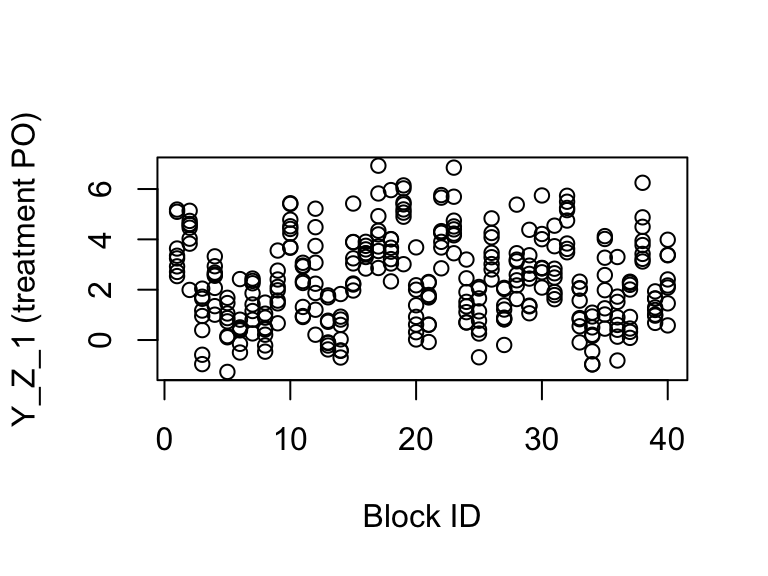
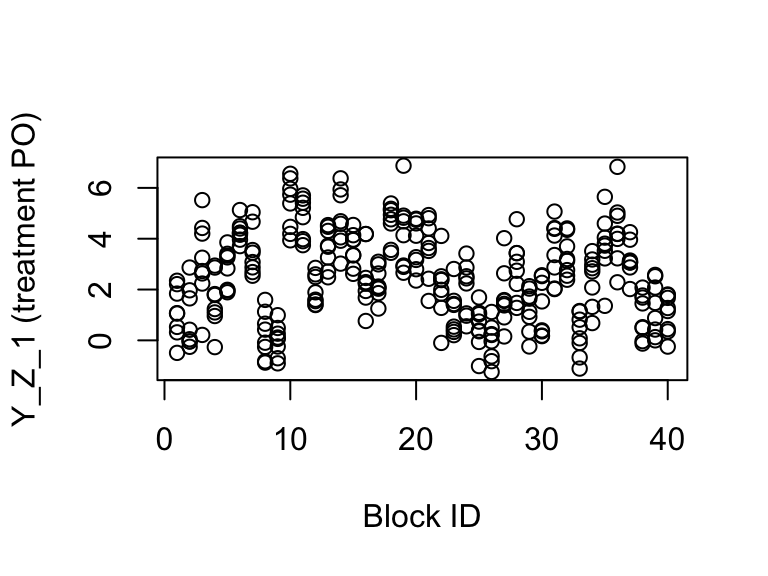
Pass through vignettes

diff --git a/docs/articles/simulations-ols-variance.html b/docs/articles/simulations-ols-variance.html
@@ -108,12 +108,15 @@
     
 <div class="contents">
 <p>This document exposes the properties of different variance estimators using <a href="http://declaredesign.org"><code>DeclareDesign</code></a> and <a href="http://estimatr.declaredesign.org"><code>estimatr</code></a>. More details about the variance estimators with references can be found in the <a href="http://estimatr.declaredesign.org/articles/mathematical-notes.html">mathematical notes</a>.</p>
+<div class="sourceCode"><pre class="sourceCode r"><code class="sourceCode r"><span class="kw">library</span>(DeclareDesign)</code></pre></div>
+<pre><code>## Loading required package: randomizr</code></pre>
+<pre><code>## Loading required package: fabricatr</code></pre>
+<pre><code>## Loading required package: estimatr</code></pre>
+<div class="sourceCode"><pre class="sourceCode r"><code class="sourceCode r"><span class="kw">library</span>(ggplot2)</code></pre></div>
 <div id="homoskedastic-errors" class="section level1">
 <h1 class="hasAnchor">
 <a href="#homoskedastic-errors" class="anchor"></a>Homoskedastic errors</h1>
 <p>Under simple conditions with homoskedasticity (i.e., all errors are drawn from a distribution with the same variance), the classical estimator of the variance of OLS should be unbiased. In this section I demonstrate this to be true using <a href="declaredesign.org"><code>DeclareDesign</code></a> and <a href="estimatr.declaredesign.org"><code>estimatr</code></a>.</p>
-<div class="sourceCode"><pre class="sourceCode r"><code class="sourceCode r"><span class="kw">library</span>(DeclareDesign)
-<span class="kw">library</span>(ggplot2)</code></pre></div>
 <p>First, let’s take a simple set up:</p>
 <p><span class="math display">\[
 \begin{aligned}
@@ -163,7 +166,7 @@ true_varb</code></pre></div>
   <span class="dt">estimand =</span> varb_estimand,
   <span class="dt">coefficient_name =</span> <span class="st">"x"</span>
 )</code></pre></div>
-<p>Now, we want to test for a few results using Monte Carlo simulation. Our main goal is to show that our estimated variance is unbiased for the true variance (our estimand). We can do this by comparing the mean of our estimated variances to the true variance. We can also show that the standard error of our coefficient estimate is the same as the standard deviation of the sampling distribution as our coefficient and that the coverage of our 95 percent confidence intervals is indeed 95 percent.</p>
+<p>Now, we want to test for a few results using Monte Carlo simulation. Our main goal is to show that our estimated variance is unbiased for the true variance (our estimand). We can do this by comparing the mean of our estimated variances across our Monto Carlo simulations to the true variance. We can also show that the standard error of our coefficient estimate is the same as the standard deviation of the sampling distribution of our coefficient. Lastly, we also measure the coverage of our 95 percent confidence intervals across simulations to test whether the they cover the true coefficient 95 percent of the time.</p>
 <p>Let’s first set up the design and our diagnosands.</p>
 <div class="sourceCode"><pre class="sourceCode r"><code class="sourceCode r"><span class="co"># First declare all the steps of our design, starting with our fixed data</span>
 classical_design &lt;-<span class="st"> </span><span class="kw"><a href="http://www.rdocumentation.org/packages/DeclareDesign/topics/declare_design">declare_design</a></span>(
@@ -185,8 +188,13 @@ my_diagnosands &lt;-<span class="st"> </span><span class="kw"><a href="http://ww
 <p>Now let’s run the simulations!</p>
 <div class="sourceCode"><pre class="sourceCode r"><code class="sourceCode r"><span class="co"># Run 25000 simulations</span>
 <span class="kw">set.seed</span>(<span class="dv">42</span>)
-dig &lt;-<span class="st"> </span><span class="kw"><a href="http://www.rdocumentation.org/packages/DeclareDesign/topics/diagnose_design">diagnose_design</a></span>(</code></pre></div>
-<p>Our diagnosands can help us see if there is any bias. Note that the standard error of the diagnosands is a useful tool that let’s us know whether our estimated bias, or any other diagnosand, is simply an artifact of simulation noise or if it appears to be precisely estimated via simulation.</p>
+dig &lt;-<span class="st"> </span><span class="kw"><a href="http://www.rdocumentation.org/packages/DeclareDesign/topics/diagnose_design">diagnose_design</a></span>(
+  classical_design, 
+  <span class="dt">sims =</span> <span class="dv">20000</span>, 
+  <span class="dt">diagnosands =</span> my_diagnosands, 
+  <span class="dt">parallel =</span> <span class="ot">TRUE</span>
+)</code></pre></div>
+<p>Our diagnosands can help us see if there is any bias. Note that the standard error of the diagnosands—denoted as <code>se(Diagnosand)</code>—is a useful tool that let’s us know whether our estimated bias, or any other diagnosand, is simply an artifact of simulation noise or if it appears to be precisely estimated via simulation.</p>
 <table class="table">
 <thead><tr class="header">
 <th></th>
@@ -211,7 +219,7 @@ dig &lt;-<span class="st"> </span><span class="kw"><a href="http://www.rdocument
 </tr>
 </tbody>
 </table>
-<p>As we can see the bias is very close to zero and because the standard error is not much smaller than the bias, we can be reasonably certain that the only reason the bias is not exactly zero is due to simulation error. We can also see this visually, using a density plot of estimated variances with a line for the true variance.</p>
+<p>As we can see the bias is very close to zero. Because the standard error of the bias is much larger than the estimated bias, we can be reasonably certain that the only reason the bias is not exactly zero is due to simulation error. We can also see the unbiasedness visually, using a density plot of estimated variances with a line for the true variance.</p>
 <p><img src="simulations-ols-variance_files/figure-html/unnamed-chunk-10-1.png" width="480"></p>
 <p>We can also show that the standard error is unbiased for the standard deviation of the sampling distribution of <span class="math inline">\(\beta\)</span> and that the coverage is appropriate.</p>
 <table class="table">
@@ -242,7 +250,11 @@ dig &lt;-<span class="st"> </span><span class="kw"><a href="http://www.rdocument
 <div id="heteroskedastic-errors" class="section level1">
 <h1 class="hasAnchor">
 <a href="#heteroskedastic-errors" class="anchor"></a>Heteroskedastic errors</h1>
-<p>Now let’s use the same fixed data set-up, but now let’s introduce heteroskedasticity. In this case, the variance of the errors is different across units (i.e. <span class="math inline">\(\sigma^2_i \neq \sigma^2_j\)</span> for some units <span class="math inline">\(i\)</span> and <span class="math inline">\(j\)</span>. If this variance of the errors is not independent of the regressors, the “classical” variance will be biased and inconsistent. Meanwhile, heteroskedastic-consistent variance estimators, such as the HC2 estimator, are consistent and normally less biased than the “classical” estimator. Let’s demonstrate this using <a href="declaredesign.org"><code>DeclareDesign</code></a>. First, let’s specify the variance of the errors to be strongly correlated with <span class="math inline">\(x\)</span>.</p>
+<p>Let’s use the same fixed data set-up, but introduce heteroskedasticity. In this case, the variance of the errors is different across units:</p>
+<p><span class="math display">\[
+\epsilon_i \sim N(0, \sigma_i^2),
+\]</span></p>
+<p>where <span class="math inline">\(\sigma^2_i \neq \sigma^2_j\)</span> for some units <span class="math inline">\(i\)</span> and <span class="math inline">\(j\)</span>. If the variance of the errors is not independent of the regressors, the “classical” variance will be biased and inconsistent. Meanwhile, heteroskedastic-consistent variance estimators, such as the HC2 estimator, are consistent and normally less biased than the “classical” estimator. Let’s demonstrate this using <a href="declaredesign.org"><code>DeclareDesign</code></a>. First, let’s specify the variance of the errors to be strongly correlated with <span class="math inline">\(x\)</span>.</p>
 <div class="sourceCode"><pre class="sourceCode r"><code class="sourceCode r">dat &lt;-<span class="st"> </span><span class="kw">fabricate</span>(
   dat,
   <span class="dt">noise_var =</span> <span class="dv">1</span> <span class="op">+</span><span class="st"> </span>(x <span class="op">-</span><span class="st"> </span><span class="kw">min</span>(x))<span class="op">^</span><span class="dv">2</span>
@@ -254,14 +266,23 @@ dig &lt;-<span class="st"> </span><span class="kw"><a href="http://www.rdocument
 <p><span class="math display">\[
 \mathbb{V}[\widehat{\beta}] = (\mathbf{X}^\top \mathbf{X})^{-1} \mathbf{X}^\top \mathbf{\Phi} \mathbf{X} (\mathbf{X}^\top \mathbf{X})^{-1},
 \]</span></p>
-<p>where <span class="math inline">\(\mathbf{\Phi}\)</span> is the variance covariance matrix of the errors, or <span class="math inline">\(\mathbf{\Phi} = \mathbb{E}[\epsilon\epsilon^\top]\)</span>. In the above case with homoskedasticity, we assumed <span class="math inline">\(\mathbf{\Phi} = \sigma^2 \mathbf{I}\)</span> and were able to simplify. Now, as in the standard set up for heteroskedasticity, we set <span class="math inline">\(\mathbf{\Phi}\)</span> to be a diagonal matrix where <code>noise_var</code>, the variance for each unit’s error, is on the diagonal. Using that error structure and the error for each unit, we can estimate the true variance.</p>
+<p>where <span class="math inline">\(\mathbf{\Phi}\)</span> is the variance covariance matrix of the errors, or <span class="math inline">\(\mathbf{\Phi} = \mathbb{E}[\epsilon\epsilon^\top]\)</span>. In the above case with homoskedasticity, we assumed <span class="math inline">\(\mathbf{\Phi} = \sigma^2 \mathbf{I}\)</span> and were able to simplify. Now, as in the standard set up for heteroskedasticity, we set <span class="math inline">\(\mathbf{\Phi}\)</span> to be a diagonal matrix where <code>noise_var</code>, the variance for each unit’s error, is on the diagonal, like so:</p>
+<p><span class="math display">\[
+\mathbf{\Phi} = \begin{bmatrix}
+\sigma_1^2 &amp; 0 &amp; \cdots &amp; 0 \\
+0 &amp; \sigma_2^2 &amp; \cdots &amp; 0 \\
+\vdots &amp; \vdots &amp; \ddots &amp; \vdots \\
+0 &amp; 0 &amp; \cdots &amp; \sigma_n^2
+\end{bmatrix}
+\]</span></p>
+<p>Using that error structure and the error for each unit, we can estimate the true variance.</p>
 <div class="sourceCode"><pre class="sourceCode r"><code class="sourceCode r">Xmat &lt;-<span class="st"> </span><span class="kw">with</span>(dat, <span class="kw">cbind</span>(<span class="dv">1</span>, x))
 XtX_inv &lt;-<span class="st"> </span><span class="kw">solve</span>(<span class="kw">crossprod</span>(Xmat))
 varb &lt;-<span class="st"> </span><span class="kw">tcrossprod</span>(XtX_inv, Xmat) <span class="op">%*%</span><span class="st"> </span><span class="kw">diag</span>(<span class="kw">with</span>(dat, noise_var)) <span class="op">%*%</span><span class="st"> </span>Xmat <span class="op">%*%</span><span class="st"> </span>XtX_inv
 true_varb_het &lt;-<span class="st"> </span>varb[<span class="dv">2</span>, <span class="dv">2</span>]
 true_varb_het</code></pre></div>
 <pre><code>## [1] 0.1473923</code></pre>
-<p>Now let’s use <a href="declaredesign.org"><code>DeclareDesign</code></a> to test whether HC2 is less biased in this example than classical standard errors. However, I will use another feature of <a href="declaredesign.org"><code>DeclareDesign</code></a> where I can create a design template. This allows me to easily pass different datasets (i.e., of different sizes) so that I can test the properties of the estimator across different datasets.</p>
+<p>Now let’s use <a href="declaredesign.org"><code>DeclareDesign</code></a> to test whether HC2 is less biased in this example than classical standard errors. However, I will use another feature of <a href="declaredesign.org"><code>DeclareDesign</code></a> where I can create a design template. This allows me to easily pass different datasets (i.e., of different sizes) and variance estimators so that I can test the properties different estimators across different datasets.</p>
 <div class="sourceCode"><pre class="sourceCode r"><code class="sourceCode r"><span class="co"># This creates a template that takes some fixed data</span>
 <span class="co"># that has x and noise_var. Then for that data, it creates</span>
 <span class="co"># a single design that you can then simulate many times to get</span>
@@ -287,7 +308,7 @@ fixed_dat_het_design_temp &lt;-<span class="st"> </span><span class="cf">functio
   lm1 &lt;-<span class="st"> </span><span class="kw"><a href="http://www.rdocumentation.org/packages/DeclareDesign/topics/declare_estimator">declare_estimator</a></span>(
     y <span class="op">~</span><span class="st"> </span>x,
     <span class="dt">model =</span> estimatr<span class="op">::</span>lm_robust,
-    <span class="dt">se_type =</span> <span class="op">!!</span>se_types[<span class="dv">1</span>],
+    <span class="dt">se_type =</span> <span class="op">!!</span>se_types[<span class="dv">1</span>], <span class="co"># !! operater will reveal the value and pass it to estimatr</span>
     <span class="dt">estimand =</span> varb_het_estimand,
     <span class="dt">coefficient_name =</span> <span class="st">"x"</span>,
     <span class="dt">label =</span> se_types[<span class="dv">1</span>]
@@ -313,7 +334,7 @@ fixed_dat_het_design_temp &lt;-<span class="st"> </span><span class="cf">functio
     )
   )
 }</code></pre></div>
-<p>So let’s use the same diagnosands as above to test the properties of our dataset with heteroskedasticity.</p>
+<p>So let’s use the same diagnosands as above to test the properties of our estimators with heteroskedasticity.</p>
 <div class="sourceCode"><pre class="sourceCode r"><code class="sourceCode r"><span class="co"># Create a design using our template and the data we have been using</span>
 het_design &lt;-<span class="st"> </span><span class="kw">fixed_dat_het_design_temp</span>(dat, <span class="dt">se_types =</span> <span class="kw">c</span>(<span class="st">"classical"</span>, <span class="st">"HC2"</span>))</code></pre></div>
 <table class="table">
@@ -365,7 +386,7 @@ het_design &lt;-<span class="st"> </span><span class="kw">fixed_dat_het_design_t
 </tr>
 </tbody>
 </table>
-<p>As you can see, the bias for the HC2 errors is much closer to zero, whereas the bias for the classical error is much larger, especially when compared to the standard error of the bias diagnosand. Let’s look how the bias change as the sample size changes.</p>
+<p>As you can see, the bias for the HC2 errors is much closer to zero, whereas the bias for the classical error is much larger, especially when compared to the standard error of the bias diagnosand. How does this bias change as the sample size changes? As the HC2 variance estimate is consistent under heteroskedasticity, it should converge to zero.</p>
 <div class="sourceCode"><pre class="sourceCode r"><code class="sourceCode r">Ns &lt;-<span class="st"> </span><span class="kw">c</span>(<span class="dv">100</span>, <span class="dv">500</span>, <span class="dv">1000</span>, <span class="dv">2500</span>, <span class="dv">5000</span>)
 diags &lt;-<span class="st"> </span><span class="kw">vector</span>(<span class="st">"list"</span>, <span class="kw">length</span>(Ns))
 
@@ -387,11 +408,11 @@ diags &lt;-<span class="st"> </span><span class="kw">vector</span>(<span class="
   diags[[i]]<span class="op">$</span>N &lt;-<span class="st"> </span>Ns[i]
 }</code></pre></div>
 <p><img src="simulations-ols-variance_files/figure-html/unnamed-chunk-18-1.png" width="480"></p>
-<p>As you can see, the HC2 variance tends to be conservative and is consistent, converging to the true value as the sample size increases, while the classical error is biased downwards even as the sample sizes increases.</p>
+<p>As you can see, the HC2 variance tends to be conservative—as the bias is positive—and is consistent, converging to the true value as the sample size increases. The classical error, while also converging, will never have zero bias and the bias is negative, underestimating the variance of the coefficients.</p>
 <div id="hc1-and-hc2-in-small-samples" class="section level2">
 <h2 class="hasAnchor">
 <a href="#hc1-and-hc2-in-small-samples" class="anchor"></a>HC1 and HC2 in small samples</h2>
-<p>The default variance estimator in <code>estimatr</code> are HC2 errors, rather than HC1, which is Stata’s default. We do this for several reasons, one of which is HC2 outperforming HC1 in small sample sizes. Let’s test this by comparing HC2 and HC1 over some small sample sizes, and plot the bias of each estimator across 40 datasets per sample size.</p>
+<p>The default variance estimator in <code>estimatr</code> is the HC2, rather than HC1 estimator (Stata’s default). We do this for several reasons, one of which is HC2 outperforming HC1 in small sample sizes. Let’s test this by comparing HC2 and HC1 over some small sample sizes, and plot the bias of each estimator across 40 datasets per sample size.</p>
 <div class="sourceCode"><pre class="sourceCode r"><code class="sourceCode r">datasets &lt;-<span class="st"> </span><span class="dv">40</span>
 <span class="co"># Generate several fixed datasets per N</span>
 Ns &lt;-<span class="st"> </span><span class="kw">rep</span>(<span class="kw">c</span>(<span class="dv">15</span>, <span class="dv">25</span>, <span class="dv">50</span>), <span class="dt">each =</span> datasets)

diff --git a/docs/articles/simulations-debiasing-dim.html b/docs/articles/simulations-debiasing-dim.html
@@ -116,11 +116,11 @@
 <div id="blocked-designs" class="section level1">
 <h1 class="hasAnchor">
 <a href="#blocked-designs" class="anchor"></a>Blocked designs</h1>
-<p>Blocking is a common strategy in experiments that helps improve the efficiency of estimators by ensuring that units with similar potential outcomes (if put in to blocks) will be represented in both treatment conditions.</p>
+<p>Blocking is a common strategy in experimental design used to improve the efficiency of estimators by ensuring that units with similar potential outcomes, when blocked, will be represented in both treatment conditions.</p>
 <div id="fixed-probability-of-treatment" class="section level2">
 <h2 class="hasAnchor">
 <a href="#fixed-probability-of-treatment" class="anchor"></a>Fixed probability of treatment</h2>
-<p>Let’s first consider an example where blocks predict the potential outcomes but where the probability of treatment is constant across blocks. In this case, estimating a simple difference-in-means without passing the information about the blocks will not bias the estimate, but it will not take advantage of the increased efficiency and the standard errors will be too large. Let’s see that in an example.</p>
+<p>Let’s first consider an example where blocks predict the potential outcomes but where the probability of treatment is constant across blocks. In this case, estimating a simple difference-in-means without passing the information about the blocks will not bias the estimate, but it will not take advantage of the increased efficiency blocking provides and the standard errors will be unnecessarily large. Let’s see that in an example.</p>
 <p>First, let’s set up our data and randomization scheme. In all of these analyses, our estimand will be the average treatment effect</p>
 <div class="sourceCode"><pre class="sourceCode r"><code class="sourceCode r"><span class="co"># Define population with blocks of the same size, with some block-level shock</span>
 simp_blocks &lt;-<span class="st"> </span><span class="kw"><a href="http://www.rdocumentation.org/packages/DeclareDesign/topics/declare_population">declare_population</a></span>(
@@ -222,12 +222,12 @@ simp_bl_dig &lt;-<span class="st"> </span><span class="kw"><a href="http://www.r
 </tr>
 </tbody>
 </table>
-<p>Both estimates are unbiased (and indeed are identical), and you can see that standard errors when accounting for blocking are much smaller (leading to better coverage and more efficient estimation). Note that the <code>"se"</code> rows in the table describe the uncertainty arising from the simulation and can help us know well estimated are our bias and variance.</p>
+<p>Both estimates are unbiased (and indeed are identical), and you can see that standard errors when accounting for blocking are much smaller (leading to better coverage and more efficient estimation). Note that the <code>"se"</code> rows in the table describe the uncertainty arising from the simulation and can help us know well we estimated our bias and variance using the simulation approach.</p>
 </div>
 <div id="correlated-potential-outcomes-and-treatment-probabilities" class="section level2">
 <h2 class="hasAnchor">
 <a href="#correlated-potential-outcomes-and-treatment-probabilities" class="anchor"></a>Correlated potential outcomes and treatment probabilities</h2>
-<p>However, not accounting for blocking becomes more problematic if the probability of treatment in each block is correlated with the treatment potential outcomes. Imagine, for example, that you are working with a partner who wants their intervention to both have a big effect and be amenable to rigorous analysis (in which case, congratulations). In this scenario, they may suspect certain types of units have higher treatment effects and want those units to be treated more often. In this case, if our blocks capture that variation in treatment effect, and blocks with higher treatment effects are treated more often, the naive estimator will overrepresent those treated units and upwardly bias the ATE. Accounting for blocking by estimating treatment effects within block and then weighting for the probability of treatment, which our <code><a href="../reference/difference_in_means.html">difference_in_means()</a></code> estimator does when blocks are specified, will eliminate this bias.</p>
+<p>However, not accounting for blocking becomes more problematic if the probability of treatment in each block is correlated with the potential outcomes. Imagine, for example, that you are working with a partner who wants their intervention to both have a big effect and be amenable to rigorous analysis (in which case, congratulations). In this scenario, they may suspect certain types of units have higher treatment effects and want those units to be treated more often. In this case, if blocks with higher treatment effects are treated more often, the naive estimator will overrepresent those treated units and upwardly bias the ATE. Accounting for blocking by estimating treatment effects within block and then weighting for the probability of treatment, which our <code><a href="../reference/difference_in_means.html">difference_in_means()</a></code> estimator does when blocks are specified, will eliminate this bias.</p>
 <div class="sourceCode"><pre class="sourceCode r"><code class="sourceCode r">corr_blocks &lt;-<span class="st"> </span><span class="kw"><a href="http://www.rdocumentation.org/packages/DeclareDesign/topics/declare_population">declare_population</a></span>(
   <span class="dt">blocks =</span> <span class="kw">add_level</span>(
     <span class="dt">N =</span> <span class="dv">60</span>,
@@ -258,10 +258,10 @@ corr_bl_des &lt;-<span class="st"> </span><span class="kw"><a href="http://www.r
 )</code></pre></div>
 <p>As you can see below, the probability of treatment is strongly correlated with the treatment effect.</p>
 <div class="sourceCode"><pre class="sourceCode r"><code class="sourceCode r">dat &lt;-<span class="st"> </span><span class="kw"><a href="http://www.rdocumentation.org/packages/DeclareDesign/topics/post_design">draw_data</a></span>(corr_bl_des)
-<span class="kw">plot</span>(<span class="kw">factor</span>(dat<span class="op">$</span>m_treat), dat<span class="op">$</span>Y_Z_<span class="dv">1</span> <span class="op">-</span><span class="st"> </span>dat<span class="op">$</span>Y_Z_<span class="dv">0</span>, 
-     <span class="dt">ylab =</span> <span class="st">"True treat. effect"</span>, <span class="dt">xlab =</span> <span class="st">"N treated in block"</span>)</code></pre></div>
+<span class="kw">plot</span>(<span class="kw">factor</span>(dat<span class="op">$</span>m_treat <span class="op">/</span><span class="st"> </span><span class="dv">8</span>), dat<span class="op">$</span>Y_Z_<span class="dv">1</span> <span class="op">-</span><span class="st"> </span>dat<span class="op">$</span>Y_Z_<span class="dv">0</span>, 
+     <span class="dt">ylab =</span> <span class="st">"True treat. effect"</span>, <span class="dt">xlab =</span> <span class="st">"Pr treatment in block"</span>)</code></pre></div>
 <p><img src="simulations-debiasing-dim_files/figure-html/unnamed-chunk-8-1.png" width="384"></p>
-<p>Let’s simulate our data.</p>
+<p>Let’s diagnose these estimators.</p>
 <div class="sourceCode"><pre class="sourceCode r"><code class="sourceCode r"><span class="kw">set.seed</span>(<span class="dv">42</span>)
 corr_bl_dig &lt;-<span class="st"> </span><span class="kw"><a href="http://www.rdocumentation.org/packages/DeclareDesign/topics/diagnose_design">diagnose_design</a></span>(
   corr_bl_des,
@@ -318,13 +318,13 @@ corr_bl_dig &lt;-<span class="st"> </span><span class="kw"><a href="http://www.r
 </tr>
 </tbody>
 </table>
-<p>As you can see, the bias and coverage are all wrong for the naive difference in means, while our corrected estimator has no bias and the coverage is at the nominal level.</p>
+<p>As you can see, the bias and coverage are all wrong for the naive difference in means, while our corrected estimator has no bias and the coverage is closer to the nominal level.</p>
 </div>
 </div>
 <div id="clustered-designs" class="section level1">
 <h1 class="hasAnchor">
 <a href="#clustered-designs" class="anchor"></a>Clustered designs</h1>
-<p>Another common design involves clustered treatment assignment, where units are can only be treated in groups. This often arises when treatments only can happen at the classroom, village, or some other aggregated level.</p>
+<p>Another common design involves clustered treatment assignment, where units are can only be treated in groups. This often arises when treatments only can happen at the classroom, village, or some other aggregated level, but you can observe outcomes at a lower level, such as a student in a classroom or a voter in a village.</p>
 <div id="clusters-of-the-same-size" class="section level2">
 <h2 class="hasAnchor">
 <a href="#clusters-of-the-same-size" class="anchor"></a>Clusters of the same size</h2>
@@ -349,6 +349,7 @@ clustered_assign &lt;-<span class="st"> </span><span class="kw"><a href="http://
 
 ate &lt;-<span class="st"> </span><span class="kw"><a href="http://www.rdocumentation.org/packages/DeclareDesign/topics/declare_estimand">declare_estimand</a></span>(<span class="dt">ATE =</span> <span class="kw">mean</span>(Y_Z_<span class="dv">1</span> <span class="op">-</span><span class="st"> </span>Y_Z_<span class="dv">0</span>))
 
+<span class="co"># Specify our two estimators</span>
 dim &lt;-<span class="st"> </span><span class="kw"><a href="http://www.rdocumentation.org/packages/DeclareDesign/topics/declare_estimator">declare_estimator</a></span>(Y <span class="op">~</span><span class="st"> </span>Z, <span class="dt">label =</span> <span class="st">"DIM"</span>)
 dim_cl &lt;-<span class="st"> </span><span class="kw"><a href="http://www.rdocumentation.org/packages/DeclareDesign/topics/declare_estimator">declare_estimator</a></span>(Y <span class="op">~</span><span class="st"> </span>Z, <span class="dt">clusters =</span> clusters, <span class="dt">label =</span> <span class="st">"DIM clustered"</span>)
 
@@ -365,12 +366,12 @@ simp_cl_des &lt;-<span class="st"> </span><span class="kw"><a href="http://www.r
 <span class="kw">table</span>(<span class="dt">Z =</span> dat<span class="op">$</span>Z, <span class="dt">clusters =</span> dat<span class="op">$</span>clusters)</code></pre></div>
 <pre><code>##    clusters
 ## Z   01 02 03 04 05 06 07 08 09 10 11 12 13 14 15 16 17 18 19 20 21 22 23
-##   0  0  0  0  8  0  0  0  8  8  0  8  8  0  0  0  0  0  0  8  0  8  8  8
-##   1  8  8  8  0  8  8  8  0  0  8  0  0  8  8  8  8  8  8  0  8  0  0  0
+##   0  8  8  0  0  8  8  8  8  8  8  0  0  0  8  0  8  0  0  8  8  8  8  0
+##   1  0  0  8  8  0  0  0  0  0  0  8  8  8  0  8  0  8  8  0  0  0  0  8
 ##    clusters
 ## Z   24 25 26 27 28 29 30 31 32 33 34 35 36 37 38 39 40
-##   0  8  0  8  0  0  8  0  8  8  8  8  8  0  0  8  8  8
-##   1  0  8  0  8  8  0  8  0  0  0  0  0  8  8  0  0  0</code></pre>
+##   0  8  0  0  0  0  0  8  8  0  8  8  8  0  0  0  0  0
+##   1  0  8  8  8  8  8  0  0  8  0  0  0  8  8  8  8  8</code></pre>
 <p>Furthermore, treatment potential outcomes are correlated with cluster.</p>
 <div class="sourceCode"><pre class="sourceCode r"><code class="sourceCode r"><span class="kw">plot</span>(dat<span class="op">$</span>clusters, dat<span class="op">$</span>Y_Z_<span class="dv">1</span>,
      <span class="dt">ylab =</span> <span class="st">"Y_Z_1 (treatment PO)"</span>, <span class="dt">xlab =</span> <span class="st">"Cluster ID"</span>)</code></pre></div>
@@ -436,7 +437,7 @@ simp_cl_dig &lt;-<span class="st"> </span><span class="kw"><a href="http://www.r
 <div id="clusters-of-different-sizes" class="section level2">
 <h2 class="hasAnchor">
 <a href="#clusters-of-different-sizes" class="anchor"></a>Clusters of different sizes</h2>
-<p>When clusters are different sizes, and potential outcomes are correlated with cluster size, the difference-in-means estimator is biased, and cannot properly account for this problem. One solution is to use the Horvitz-Thompson estimator, which is actually a difference-in-totals estimator.</p>
+<p>When clusters are different sizes, and potential outcomes are correlated with cluster size, the difference-in-means estimator is no longer appropriate as it is biased. One solution is to use the Horvitz-Thompson estimator, which is actually a difference-in-totals estimator.</p>
 <p>In the below, I use simulation to show that the difference-in-means estimator cannot account for the correlation between cluster size and potential outcomes, while the Horvitz-Thompson estimator can. I will use simple random assignment for the clusters as this estimation is faster.</p>
 <div class="sourceCode"><pre class="sourceCode r"><code class="sourceCode r"><span class="co"># Correlated cluster size and potential outcomes</span>
 diff_size_cls &lt;-<span class="st"> </span><span class="kw"><a href="http://www.rdocumentation.org/packages/DeclareDesign/topics/declare_population">declare_population</a></span>(
